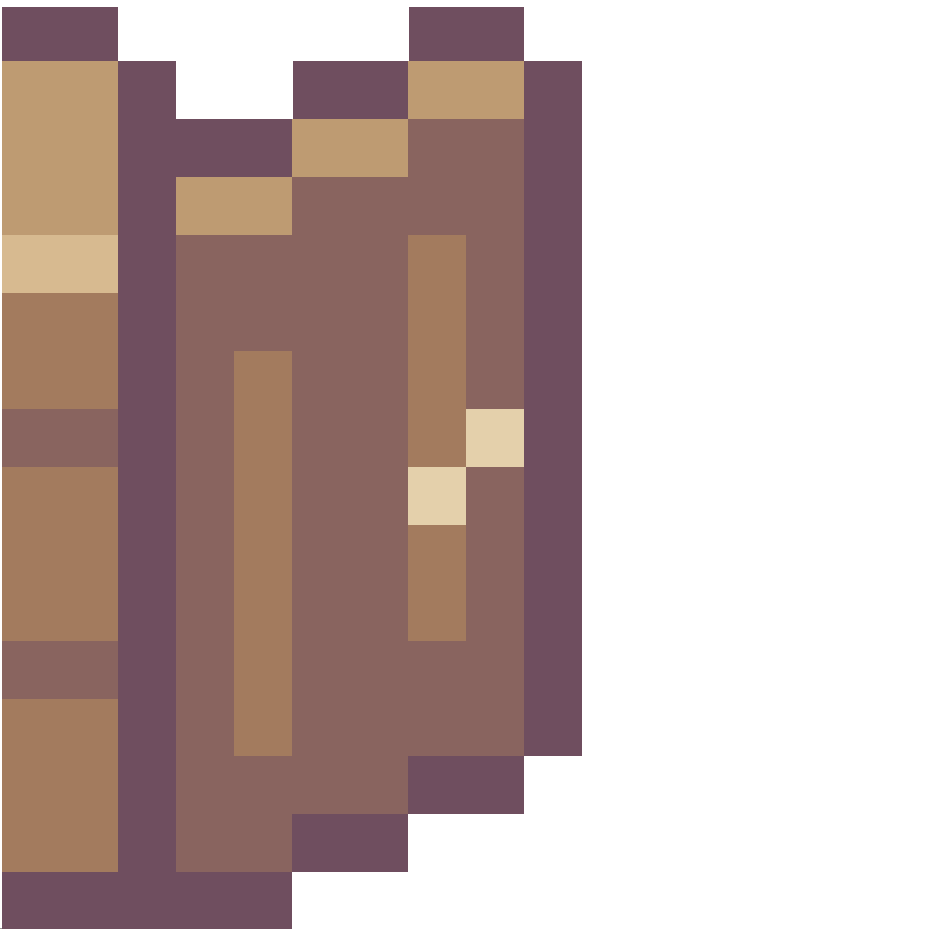
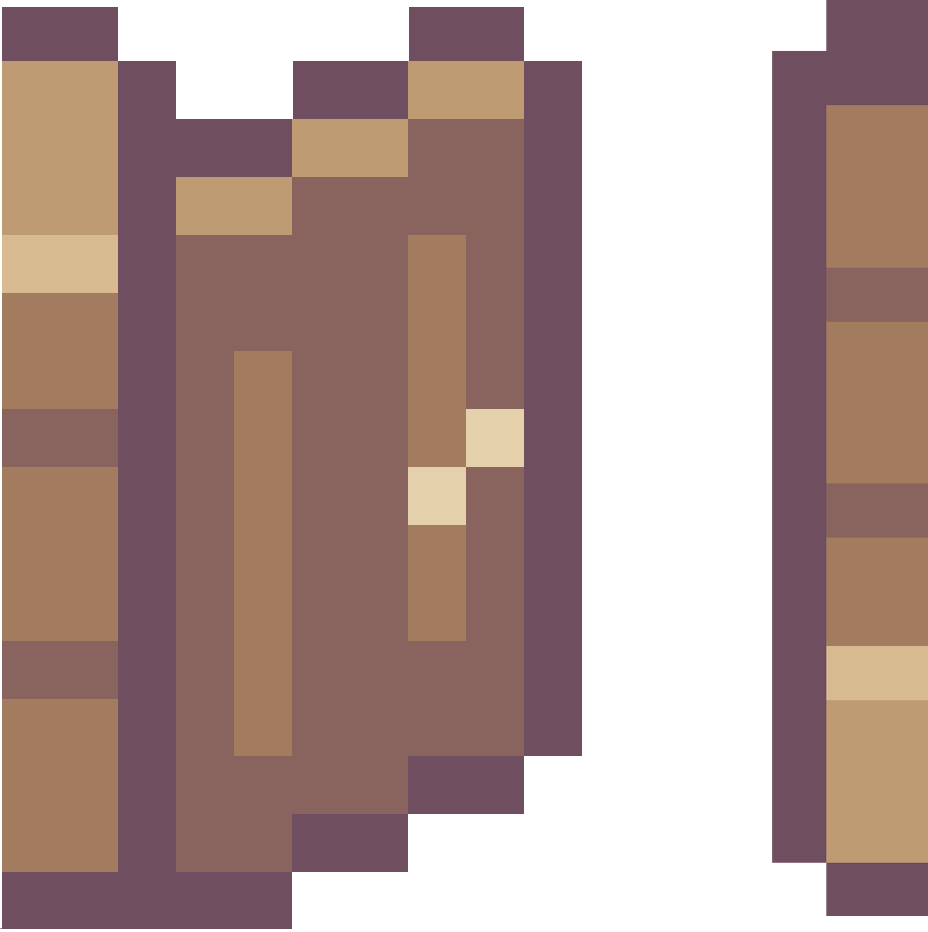
Walls upgrade from basic to intermediate when clicked on them again. Changed method place to placeOrUpgradeWall to meet the functionality

Changed region(s): [[0.8125, 0.0, 1.0, 0.9957]]

diff --git a/source/core/src/main/com/csse3200/game/areas/ForestGameArea.java b/source/core/src/main/com/csse3200/game/areas/ForestGameArea.java
@@ -111,14 +111,14 @@ public class ForestGameArea extends GameArea {
 
     Entity wall = BuildablesFactory.createCustomWall(WallType.basic);
     Entity intermediateWall = BuildablesFactory.createCustomWall(WallType.intermediate);
-    structurePlacementService.PlaceStructureAt(wall, new GridPoint2(10, 10), true, true);
-    structurePlacementService.PlaceStructureAt(intermediateWall, new GridPoint2(11, 10), true, true);
+    structurePlacementService.PlaceStructureAt(wall, new GridPoint2(10, 10), false, false);
+    structurePlacementService.PlaceStructureAt(intermediateWall, new GridPoint2(12, 10), false, false);
 
     walls.add(wall);
     walls.add(intermediateWall);
 
     Entity gate = BuildablesFactory.createGate(WallType.basic, player);
-    spawnEntityAt(gate, new GridPoint2(12, 10), true, true);
+    spawnEntityAt(gate, new GridPoint2(14, 10), false, false);
 
     return walls;
   }

diff --git a/source/core/src/main/com/csse3200/game/components/player/PlayerActions.java b/source/core/src/main/com/csse3200/game/components/player/PlayerActions.java
@@ -79,7 +79,10 @@ public class PlayerActions extends Component {
   void place(int screenX, int screenY) {
     var location = ServiceLocator.getTerrainService().ScreenCoordsToGameCoords(screenX, screenY);
     Entity wall = BuildablesFactory.createCustomWall(WallType.basic);
-    ServiceLocator.getStructurePlacementService().PlaceStructureAt(wall,new GridPoint2(Math.round(location.x), Math.round(location.y)),false, false);
+//    if(WallType.basic){
+//
+//    }
+    ServiceLocator.getStructurePlacementService().PlaceStructureAt(wall,new GridPoint2(((int)((location.x)/2)*2), ((int)((location.y)/2))*2),false, false);
   }
 
 }
